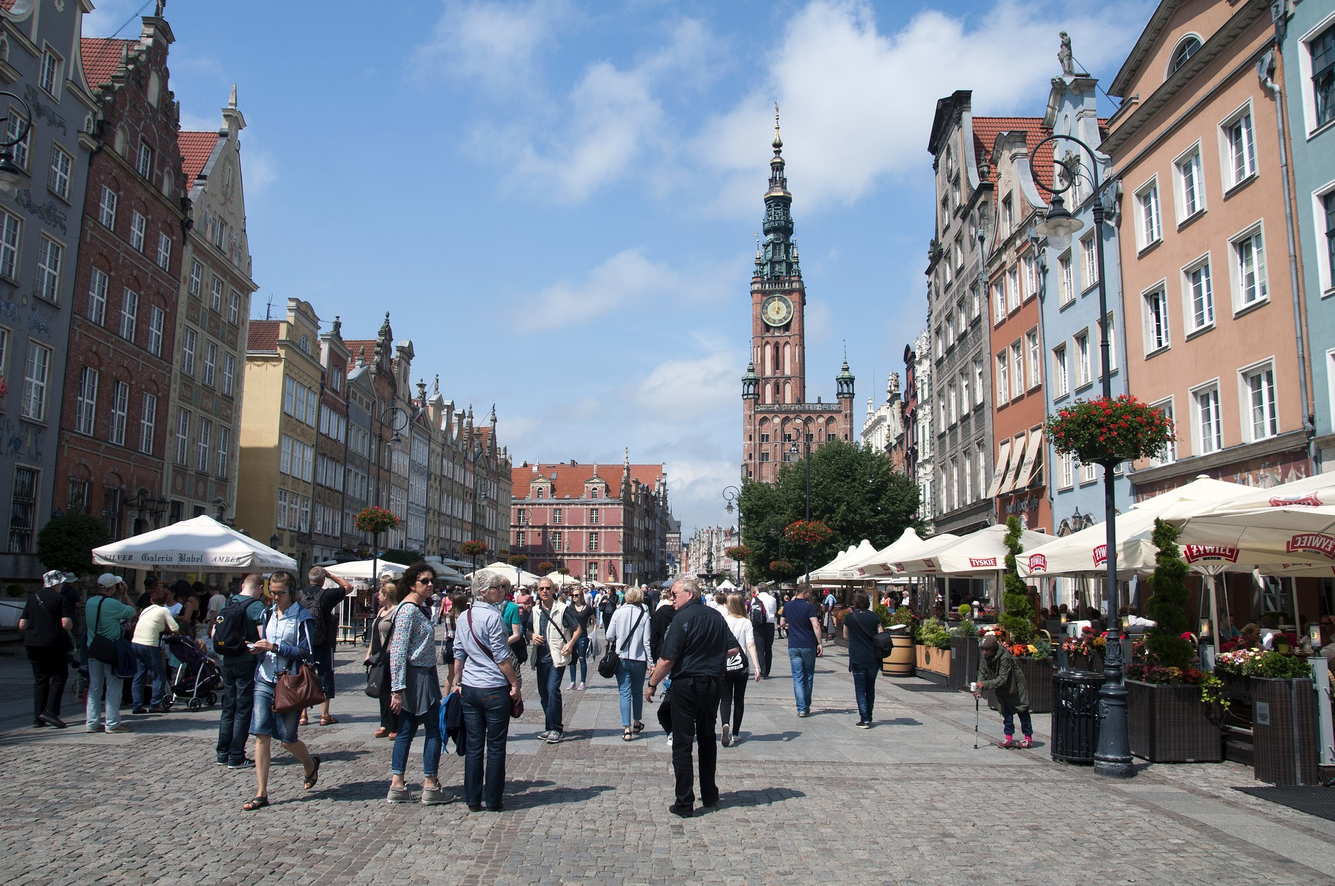
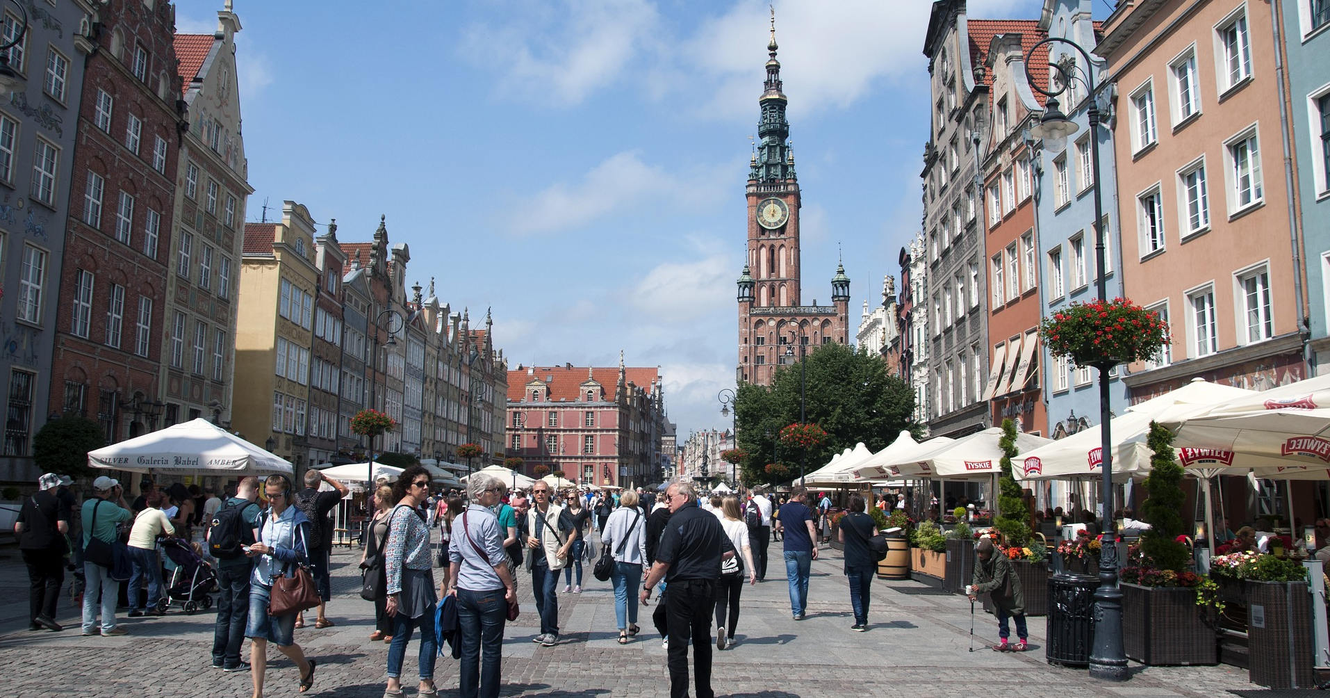
resize photo and setting change

diff --git a/styles.css b/styles.css
@@ -168,13 +168,11 @@ svg {
 .picture1 {
 
     background: url("./graphics/go_out_gdansk.jpg") no-repeat;
-    /*width: 1920px;*/
-    background-size: cover;
-    /*height: 1275px;*/
-    height: 80vh;
+    background-size: 100%;
+    height: 80%;
     position: relative;
-    background-position: center -100px;
-    background-repeat: no-repeat;
+    background-position: center
+
 }
 
 .intro {
